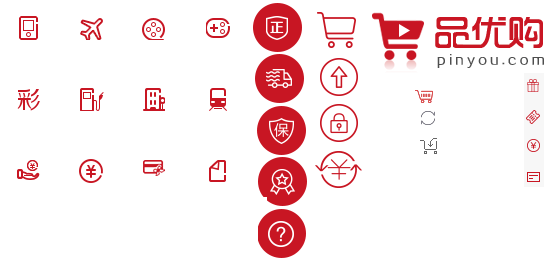
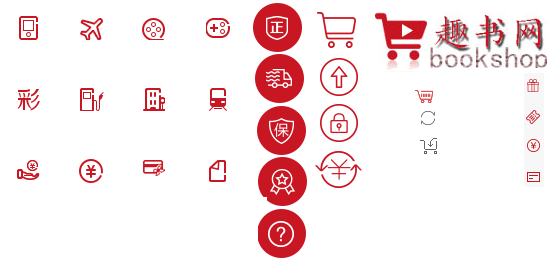
init

Changed region(s): [[0.6679, 0.0301, 1.0, 0.2707]]

diff --git a/client/templates/login.html b/client/templates/login.html
@@ -12,8 +12,8 @@
         position: relative;
     }
     .tp{
-        width:22%;
-        height: 20%;
+        width:175px;
+        height: 56px;
         margin-left:12%;
     }
     .one{
@@ -21,8 +21,8 @@
         font-weight:normal;
         font-size: 218%;
         font-style:italic;
-        margin-top:1.5% ;
-        margin-left:-110px;
+        margin-top:0px ;
+        margin-left:110px;
     }
     #content{
         width: 100%;
@@ -39,7 +39,7 @@
     }
     #content .cont-wrapper{
         width: 100%;
-        font-size: 5px;
+        font-size: 10px;
         font-weight:lighter;
         vertical-align: middle;
         background: #fff8f0;
@@ -81,7 +81,7 @@
         margin-top:5px ;
     }
     .cont-wrappers{
-        font-size: 5px;
+        font-size: 10px;
         font-weight:lighter;
         background: #fff8f0;
         text-align: center;

diff --git a/client/static/css/webbase.css b/client/static/css/webbase.css
@@ -191,7 +191,7 @@ ul.brand-list li {
 
 .logo-bd {
     display: block;
-    /*background: url(../img/Logo.png) no-repeat;*/
+    background: url(../img/Logo.png) no-repeat;
     width: 175px;
     height: 55px;
     margin: 25px auto
